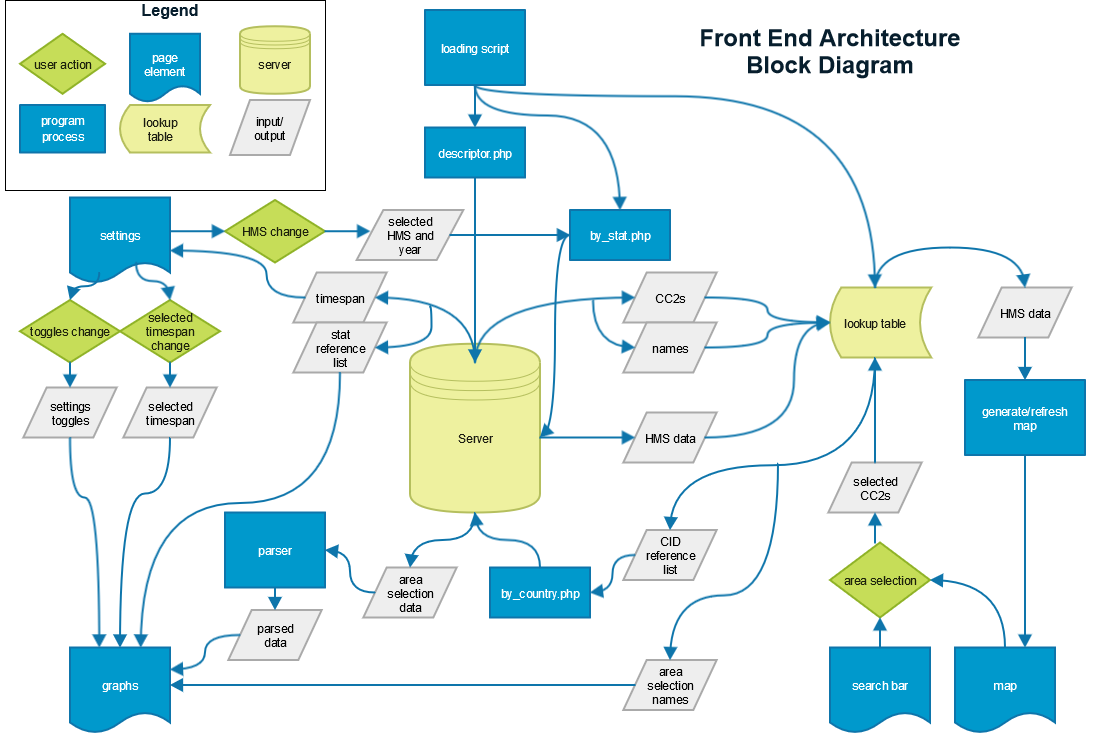
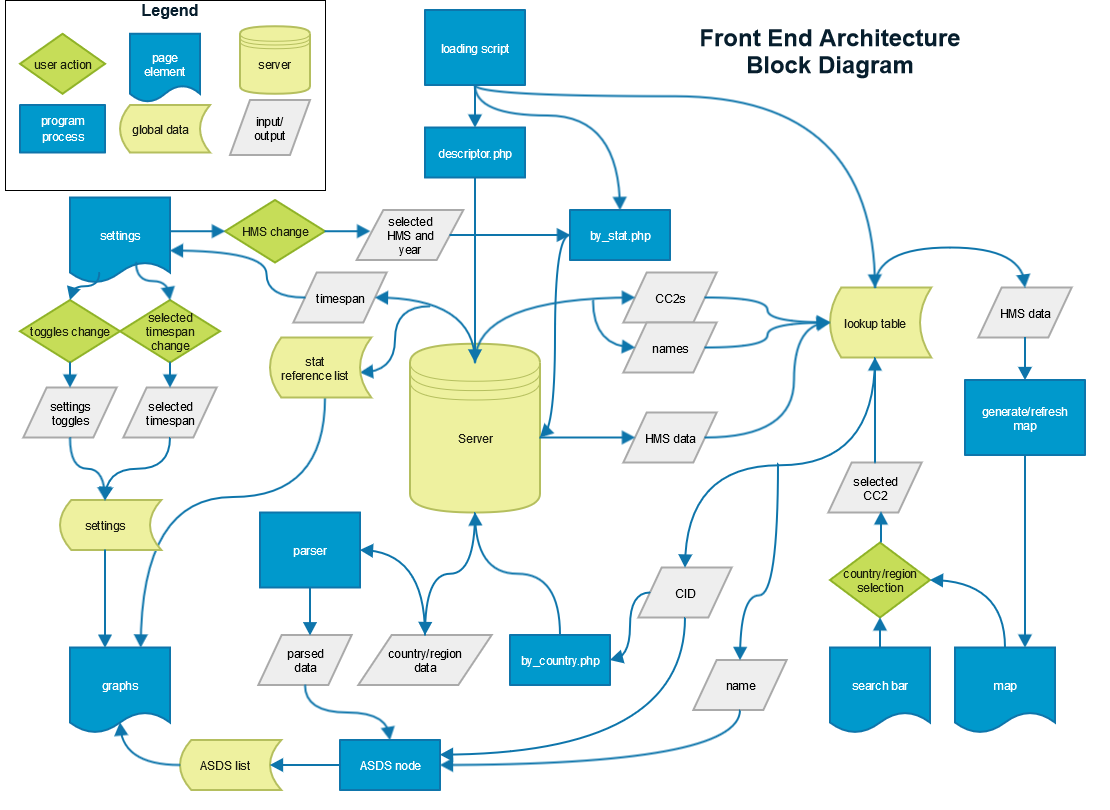
Revised Block Diagram and Added Node Spec

Changed region(s): [[0.0, 0.0, 0.9802, 0.9919], [0.7045, 0.155, 0.7658, 0.217]]

diff --git a/doc/FrontEndArchitecture.md b/doc/FrontEndArchitecture.md
@@ -76,7 +76,7 @@ Section 3 defines the use cases and how we satisfy them, features of the user in
 
 **stat reference list** refers to an array of stat names and names corresponding to upper and lower bounds of stats (Births, Deaths, Estimated Cases Upper, Estimated Cases, Estimated Cases Lower etc.) which are enumerated based on the order in which the stats are returned when a data query is made.
 
-**statID** refers to the enumerated value of a stat in the stat reference list.
+**stat ID** refers to the enumerated value of a stat in the stat reference list.
 
 **CC2** refers to the unique 2 character code used to refer to a country/region.
 
@@ -90,7 +90,7 @@ Section 3 defines the use cases and how we satisfy them, features of the user in
 
 **selected timespan** refers to the 2 integers that represent the first and last year for which data is desired by the user to be represented.
 
-**settings toggles** refers to an array of booleans that represents all boolean settings values, including bounds on/off, and on/off for each available stat.
+**settings toggles** refers to an array of booleans that represents all boolean settings values, including bounds on/off, and an on/off corresponding to each stat ID that is not a bound.
 
 #Section 1
 
@@ -151,7 +151,7 @@ data.js is a JavaScript data module that contains all global variables needed ac
  * `g_YearEnd` : variable containing latest year for which the user wants to see data
  * `g_Data` : variable containing area selection data (in ASDS format)
  * `g_Toggles` : variable containing settings toggles
- * `g_HMSID` : statID representing which stat is heat mapped
+ * `g_HMSID` : stat ID representing which stat is heat mapped
  * `g_HMSYear` : variable representing the year for which HMS data is desired
  * `g_isSum` : boolean variable that represents whether graph is to be sum or individualized data (true if user wants sum)
 
@@ -194,6 +194,7 @@ map.js is a JavaScript module that includes functions to:
 **data_query.js**
 
 data_query.js is a JavaScript module that includes a function to:  
+ * Prototype ASDS node (defined in section 2.4)
  * Take a CC2, translate it to CID and get name, make call to by_country.php using CID, parse returned data (using client_parser.js) and create and return new ASDS node
  * Take CID, name, and parsed data and return ASDS node including that data
 
@@ -235,10 +236,17 @@ The area selection data structure is defined below:
 When a country/region's data is returned from by_country.php, it is sent to the ParseData(json) function of client_parser.js. When parsed data is returned from client_parser.js, it is returned as a 2D array, indexed as a 2D array `A[x][y]`.
 
 For data `A[x][y]`,  
- * `x =` statID, where each row stat values in `y` indexed by `x` is the time series for the stat corresponding to `statID` in the stat reference list.
+ * `x =` stat ID, where each row stat values in `y` indexed by `x` is the time series for the stat corresponding to stat ID in the stat reference list.
  * `y =` stat value for the stat corresponding to statID at time `t = y + 1980`.
 
-This 2D array is a data member of an ASDS node, which also includes CID and name of the relevant country/region.
+This 2D array is a data member of an ASDS node, which also includes CID and name of the relevant country/region. It is declared in data_query.js as:  
+`function data_node(cid, name, data)`  
+`{`  
+&nbsp;&nbsp;&nbsp;&nbsp;`this.cid=cid;`  
+&nbsp;&nbsp;&nbsp;&nbsp;`this.name=name;`  
+&nbsp;&nbsp;&nbsp;&nbsp;`this.data=data;`  
+&nbsp;&nbsp;&nbsp;&nbsp;`this.next=null;`  
+`}`  
 
 The ASDS is a singly-linked list of ASDS nodes.
 
